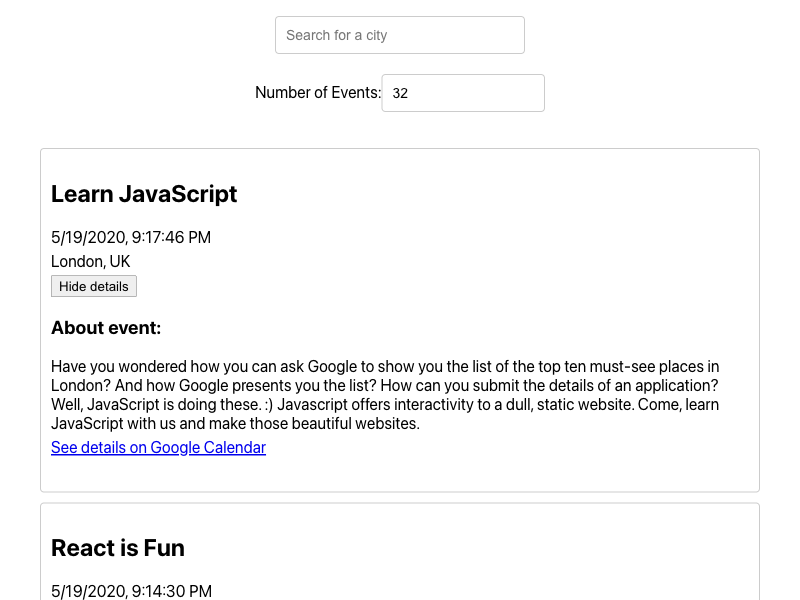
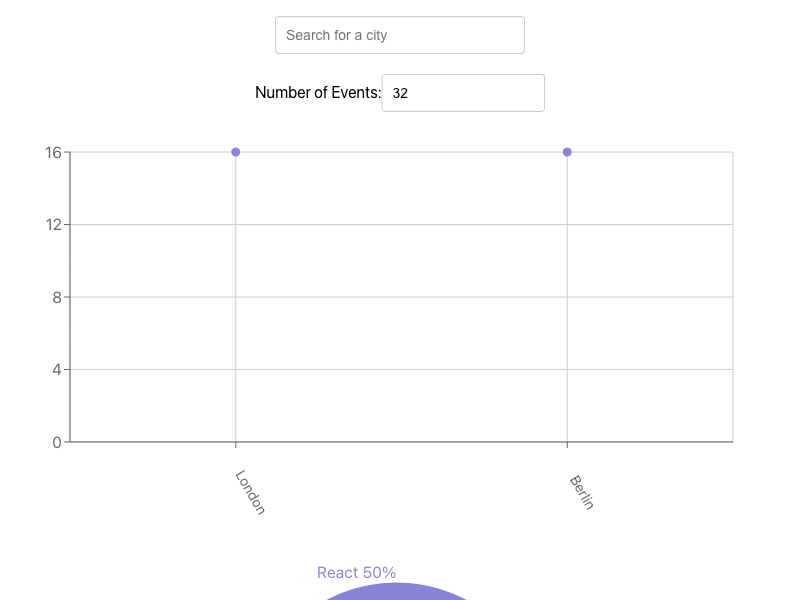
Implement Skeleton Pie Chart Component

diff --git a/src/components/CityEventsChart.js b/src/components/CityEventsChart.js
@@ -1,28 +1,19 @@
-// src/components/CityEventsChart.js
-
-import { useState, useEffect } from 'react';
-import {
-  ScatterChart,
-  Scatter,
-  XAxis, YAxis,
-  CartesianGrid,
-  Tooltip,
-  ResponsiveContainer
-} from 'recharts';
+import { useState, useEffect } from "react";
+import { ScatterChart, Scatter, XAxis, YAxis, CartesianGrid, Tooltip, ResponsiveContainer } from "recharts";
 
 const CityEventsChart = ({ allLocations, events }) => {
   const [data, setData] = useState([]);
 
   useEffect(() => {
     setData(getData());
-  }, [events]);
+  }, [`${events}`]);
 
   const getData = () => {
     const data = allLocations.map((location) => {
-      const count = events.filter((event) => event.location === location).length;
-      const city = location.split(/, | - /)[0];
+      const count = events.filter((event) => event.location === location).length
+      const city = location.split((/, | - /))[0]
       return { city, count };
-    });
+    })
     return data;
   };
 
@@ -39,11 +30,11 @@ const CityEventsChart = ({ allLocations, events }) => {
         <CartesianGrid />
         <XAxis
           type="category" dataKey="city" name="City"
-          angle={60} interval={0} tick={{ dx: 20, dy: 40, fontSize: 14 }}
+          angle={60} interval={0} tick={{ dx: 20, dy: 40, fontSize: 14 }} 
         />
         <YAxis type="number" dataKey="count" name="Number of events" allowDecimals={false} />
         <Tooltip cursor={{ strokeDasharray: '3 3' }} />
-        <Scatter name="Events" data={data} fill="#8884d8" />
+        <Scatter name="A school" data={data} fill="#8884d8" />
       </ScatterChart>
     </ResponsiveContainer>
   );

diff --git a/src/components/EventGenresChart.js b/src/components/EventGenresChart.js
@@ -1,0 +1,59 @@
+// src/components/EventGenresChart.js
+
+import { useState, useEffect } from 'react';
+import {
+  PieChart, Pie, ResponsiveContainer
+} from 'recharts';
+
+const EventGenresChart = ({ events }) => {
+  const [data, setData] = useState([]);
+
+  const genres = ['React', 'JavaScript', 'Node', 'jQuery', 'Angular'];
+
+  useEffect(() => {
+    setData(getData());
+  }, [events]);
+
+  const getData = () => {
+    const data = genres.map(genre => {
+      const filteredEvents = events.filter(event => event.summary.includes(genre));
+      return { name: genre, value: filteredEvents.length };
+    });
+    return data;
+  };
+
+  const renderCustomizedLabel = ({ cx, cy, midAngle, outerRadius, percent, index }) => {
+    const RADIAN = Math.PI / 180;
+    const radius = outerRadius;
+    const x = cx + radius * Math.cos(-midAngle * RADIAN) * 1.07;
+    const y = cy + radius * Math.sin(-midAngle * RADIAN) * 1.07;
+    return percent ? (
+      <text
+        x={x}
+        y={y}
+        fill="#8884d8"
+        textAnchor={x > cx ? 'start' : 'end'}
+        dominantBaseline="central"
+      >
+        {`${genres[index]} ${(percent * 100).toFixed(0)}%`}
+      </text>
+    ) : null;
+  };
+
+  return (
+    <ResponsiveContainer width="99%" height={400}>
+      <PieChart>
+        <Pie
+          data={data}
+          dataKey="value"
+          fill="#8884d8"
+          labelLine={false}
+          label={renderCustomizedLabel}
+          outerRadius={150}
+        />
+      </PieChart>
+    </ResponsiveContainer>
+  );
+};
+
+export default EventGenresChart;

diff --git a/src/setupTests.js b/src/setupTests.js
@@ -1,27 +1,35 @@
-// jest-dom adds custom jest matchers for asserting on DOM nodes.
-// allows you to do things like:
-// expect(element).toHaveTextContent(/react/i)
 // learn more: https://github.com/testing-library/jest-dom
 
-
-// src/setupTests.js
-
-import '@testing-library/jest-dom';
+import "@testing-library/jest-dom";
 
 // Here, add portions of the warning messages you want to intentionally prevent from appearing
 const MESSAGES_TO_IGNORE = [
   "When testing, code that causes React state updates should be wrapped into act(...):",
   "Error:",
-  "The above error occurred"
+  "The above error occurred",
 ];
 
 const originalError = console.error.bind(console.error);
 
 console.error = (...args) => {
-  const ignoreMessage = MESSAGES_TO_IGNORE.find(message => args.toString().includes(message));
+  const ignoreMessage = MESSAGES_TO_IGNORE.find((message) =>
+    args.toString().includes(message)
+  );
   if (!ignoreMessage) originalError(...args);
-}
+};
 
 jest.setTimeout(30000);
 
-
+const { ResizeObserver } = window;
+beforeEach(() => {
+  delete window.ResizeObserver;
+  window.ResizeObserver = jest.fn().mockImplementation(() => ({
+    observe: jest.fn(),
+    unobserve: jest.fn(),
+    disconnect: jest.fn(),
+  }));
+});
+afterEach(() => {
+  window.ResizeObserver = ResizeObserver;
+  jest.restoreAllMocks();
+});

diff --git a/src/App.js b/src/App.js
@@ -1,4 +1,3 @@
-// src/App.js
 import React, { useState, useEffect } from 'react';
 import CitySearch from './components/CitySearch';
 import EventList from './components/EventList';
@@ -7,6 +6,7 @@ import { getEvents, extractLocations } from './api';
 import './App.css';
 import { InfoAlert, WarningAlert, ErrorAlert } from './components/Alert';
 import CityEventsChart from './components/CityEventsChart';
+import EventGenresChart from './components/EventGenresChart';
 
 const App = () => {
   const [events, setEvents] = useState([]);
@@ -49,7 +49,10 @@ const App = () => {
       </div>
       <CitySearch allLocations={locations} setCurrentCity={setCurrentCity} setInfoAlert={setInfoAlert} />
       <NumberOfEvents setEventCount={setEventCount} setErrorAlert={setErrorAlert} />
-      <CityEventsChart allLocations={locations} events={events} />
+      <div className="charts-container">
+        <CityEventsChart allLocations={locations} events={events} />
+        <EventGenresChart events={events} />
+      </div>
       <EventList events={events} />
     </div>
   );
